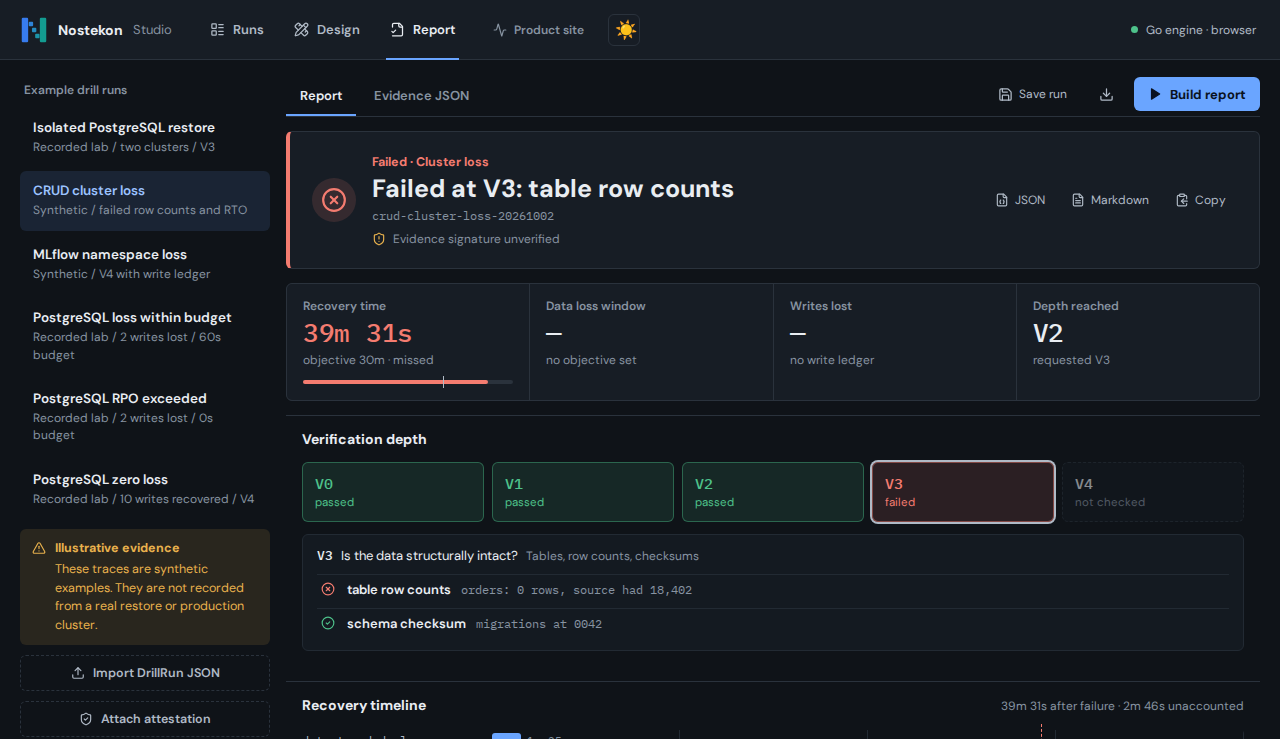
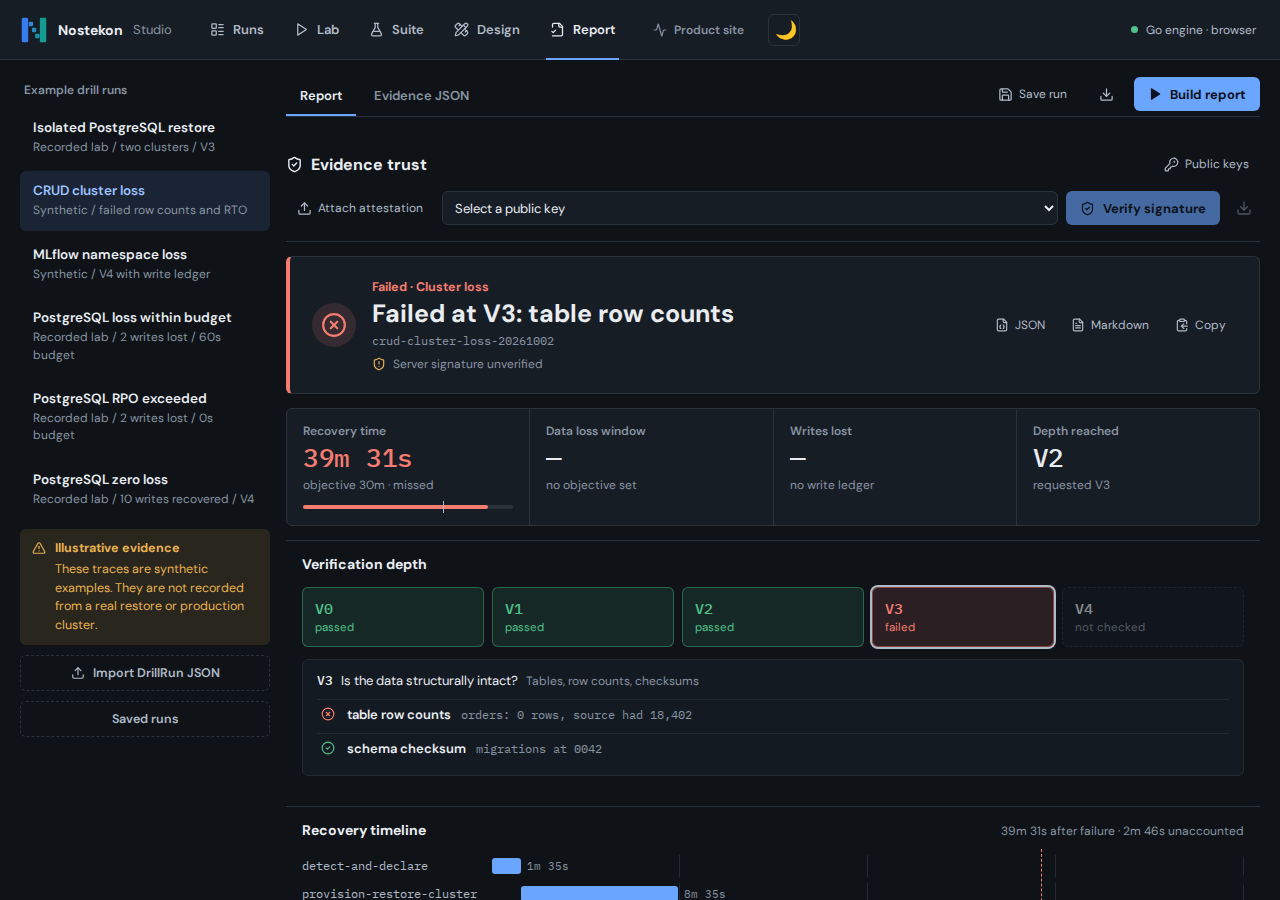
docs(site): document browser trust and signed-original verification

diff --git a/site/src/content/docs/reference/drillrun-evidence.md b/site/src/content/docs/reference/drillrun-evidence.md
@@ -115,13 +115,13 @@ The local report API optionally verifies the base64-encoded
 `X-Nostekon-Attestation` header against the public keys in
 `NOSTEKON_TRUSTED_KEYS_DIR`. Put only `*.pem` PKIX Ed25519 public keys there;
 the API loads at most 128 keys during startup and fails startup on an empty
-configured directory or an invalid key. The local Studio's **Attach
-attestation** control sends the sidecar to this API. A valid response includes
+configured directory or an invalid key. In Studio, attach the sidecar and use
+**Check server trust** to send it to this API. A valid response includes
 the verified key ID and evidence digest; an unknown key or changed evidence is
 rejected. If a sidecar is sent while no trust store is configured, the API
 returns `503`. Unsigned requests still return `provenance.status: unverified`.
-The static browser demo has no trusted-key configuration and therefore cannot
-verify a signature; it explicitly reports that limitation instead.
+This server policy is independent of the browser's public-key library. Importing
+or trusting a key in Studio does not configure `NOSTEKON_TRUSTED_KEYS_DIR`.
 
 For scripts that call the endpoint directly:
 
@@ -132,3 +132,54 @@ curl -sS http://localhost:8080/api/v1/runs/report \
   -H "X-Nostekon-Attestation: $sidecar" \
   --data-binary @run.json
 ```
+
+### Verify in Studio or the browser demo
+
+Verified on 2026-10-08 against both the packaged API and browser WebAssembly.
+Both use the same Go Ed25519 verifier as the CLI. No signing or private-key
+import is available in Studio.
+
+1. Import the **original** DrillRun JSON in **Evidence report**, then **Attach
+   attestation**. Reformatting JSON changes the signed bytes.
+2. Open **Public keys**, give the key a label and import the owner's PKIX
+   Ed25519 `PUBLIC KEY` PEM. Imports start **Not trusted**. Private keys are
+   rejected before any API request.
+3. Compare the complete 64-character fingerprint with the owner through an
+   independent trusted channel. This is SHA-256 of the raw 32-byte Ed25519 key,
+   not a hash of the PEM or PKIX wrapper. Select **Trust public key**, confirm
+   the fingerprint checkbox, then **Confirm trust**.
+4. Close the dialog, select that key and **Verify signature**. A valid result
+   binds the exact original bytes to the selected locally trusted key. Recovery
+   verdicts and server provenance remain separate.
+5. **Download signed originals** exports the original JSON, detached sidecar,
+   public key and a computed signature-check receipt. The receipt and archive
+   container are not independently signed. A bundled key is not a trust anchor.
+
+Extract the ZIP into a new directory and independently verify it from the
+repository root, using a public key you have already authenticated:
+
+```bash
+go run ./cmd/nostekon-attest verify \
+  --evidence /path/to/extracted/nostekon.run.json \
+  --attestation /path/to/extracted/nostekon.run.attestation.json \
+  --trusted-key "$HOME/.config/nostekon/trusted-keys/operator.pem"
+```
+
+This is an original-file archive, not a host-job bundle for **Import bundle**.
+Import its extracted evidence and sidecar separately. **Save run** retains
+original evidence and the computed report, not the sidecar or local verification
+receipt; reopen and check the signature again when needed.
+
+The public-key library is local to this browser origin and capped at 20 keys;
+there is no silent eviction. Re-importing a key preserves its trust or revoked
+state. **Revoke local trust** prevents further checks and exports with that key;
+open tabs are notified, and verification/export re-read policy. Deletion requires
+confirmation and does not delete evidence. Neither operation revokes the key in
+the server configuration or establishes when a signature was made. Clear site
+data or a different origin means a different local policy. Keep authenticated
+public keys and originals outside browser storage.
+
+Changed evidence, a wrong key, malformed sidecars or unsupported versions fail
+verification and disable signed export. Edits, selection changes and policy
+changes clear local receipts. Signature validity is not independent capture
+authenticity, operator identity, trusted signing time or successful recovery.

diff --git a/site/src/content/docs/start.md b/site/src/content/docs/start.md
@@ -21,7 +21,17 @@ npm run dev
 
 Open `http://127.0.0.1:5173`. The **Design drill** view lets you import a JSON drill, edit it, format it, validate it, and download the edited file. A green result means the specification meets the current contract; it does **not** mean a recovery succeeded.
 
-The **Evidence report** view includes two synthetic runs and four locally recorded k3d lab runs: the historical V3 restore, V4 zero loss, V4 RPO exceeded, and V4 loss within an explicit budget. Import a recorded DrillRun JSON file or build a report from a sample. Select a V0–V4 level to inspect its checks, review the phase timeline and write-loss window, and export the report as JSON or Markdown. To verify a detached Ed25519 signature, configure `NOSTEKON_TRUSTED_KEYS_DIR` on the local API, then use **Attach attestation** in Studio. The API verifies against its configured public keys and records the key ID in the report. The browser demo has no trusted-key store and will not claim to verify signatures.
+The **Evidence report** view includes two synthetic runs and four locally recorded k3d lab runs: the historical V3 restore, V4 zero loss, V4 RPO exceeded, and V4 loss within an explicit budget. Import a recorded DrillRun JSON file or build a report from a sample. Select a V0–V4 level to inspect its checks, review the phase timeline and write-loss window, and export the report as JSON or Markdown.
+
+For a detached Ed25519 signature, **Attach attestation**, import the owner's
+public key in **Public keys**, authenticate its fingerprint independently and
+explicitly trust it. **Verify signature** works in the installed app and static
+browser demo using the same Go verifier. Valid signatures enable exact signed-
+original downloads but do not change recovery verdicts. Local trust/revocation
+is separate from the API's startup configuration: **Check server trust** uses
+`NOSTEKON_TRUSTED_KEYS_DIR` and adds verified server provenance to the report.
+Follow the [public-key and export workflow](reference/drillrun-evidence.md#verify-in-studio-or-the-browser-demo)
+for fingerprint checks, revocation, limits and independent CLI verification.
 
 ## Run the isolated PostgreSQL lab drill
 

diff --git a/site/src/content/docs/guides/k3d-isolated-restore.md b/site/src/content/docs/guides/k3d-isolated-restore.md
@@ -619,8 +619,9 @@ evaluated JSON evidence. It does not authenticate the capture, inspect the
 SQLite ledger, reproduce every runner acceptance check, verify signatures or
 prove that a restore actually happened. Imported bundles remain labelled
 **Imported evidence**; the built-in bundle is **Recorded local lab**. Both
-remain signature-unverified. Follow the existing attestation workflow for
-trusted-key verification outside the static demo.
+remain signature-unverified. Verify an individual original case and its sidecar
+with the [Studio or CLI attestation workflow](../reference/drillrun-evidence.md#verify-in-studio-or-the-browser-demo).
+That does not sign or authenticate the suite summary, gate or bundle manifest.
 
 Verified on 2026-10-05 in the browser demo at 390px and 1440px: all three
 recorded outcomes, changed-summary detection, missing/invalid imports and
